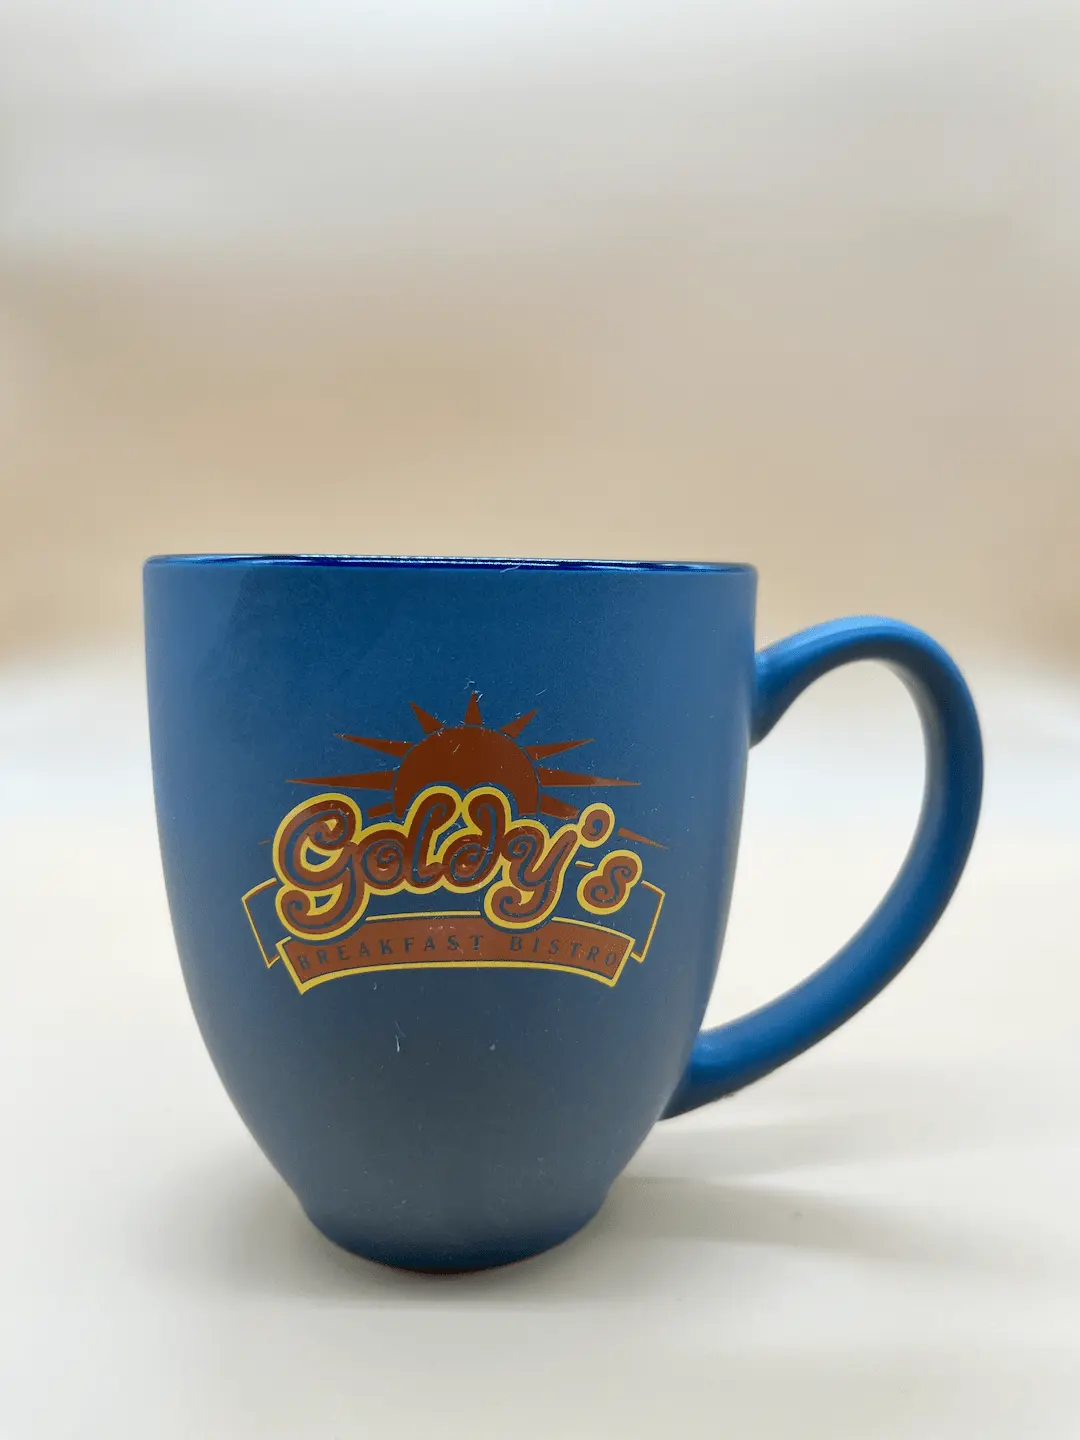
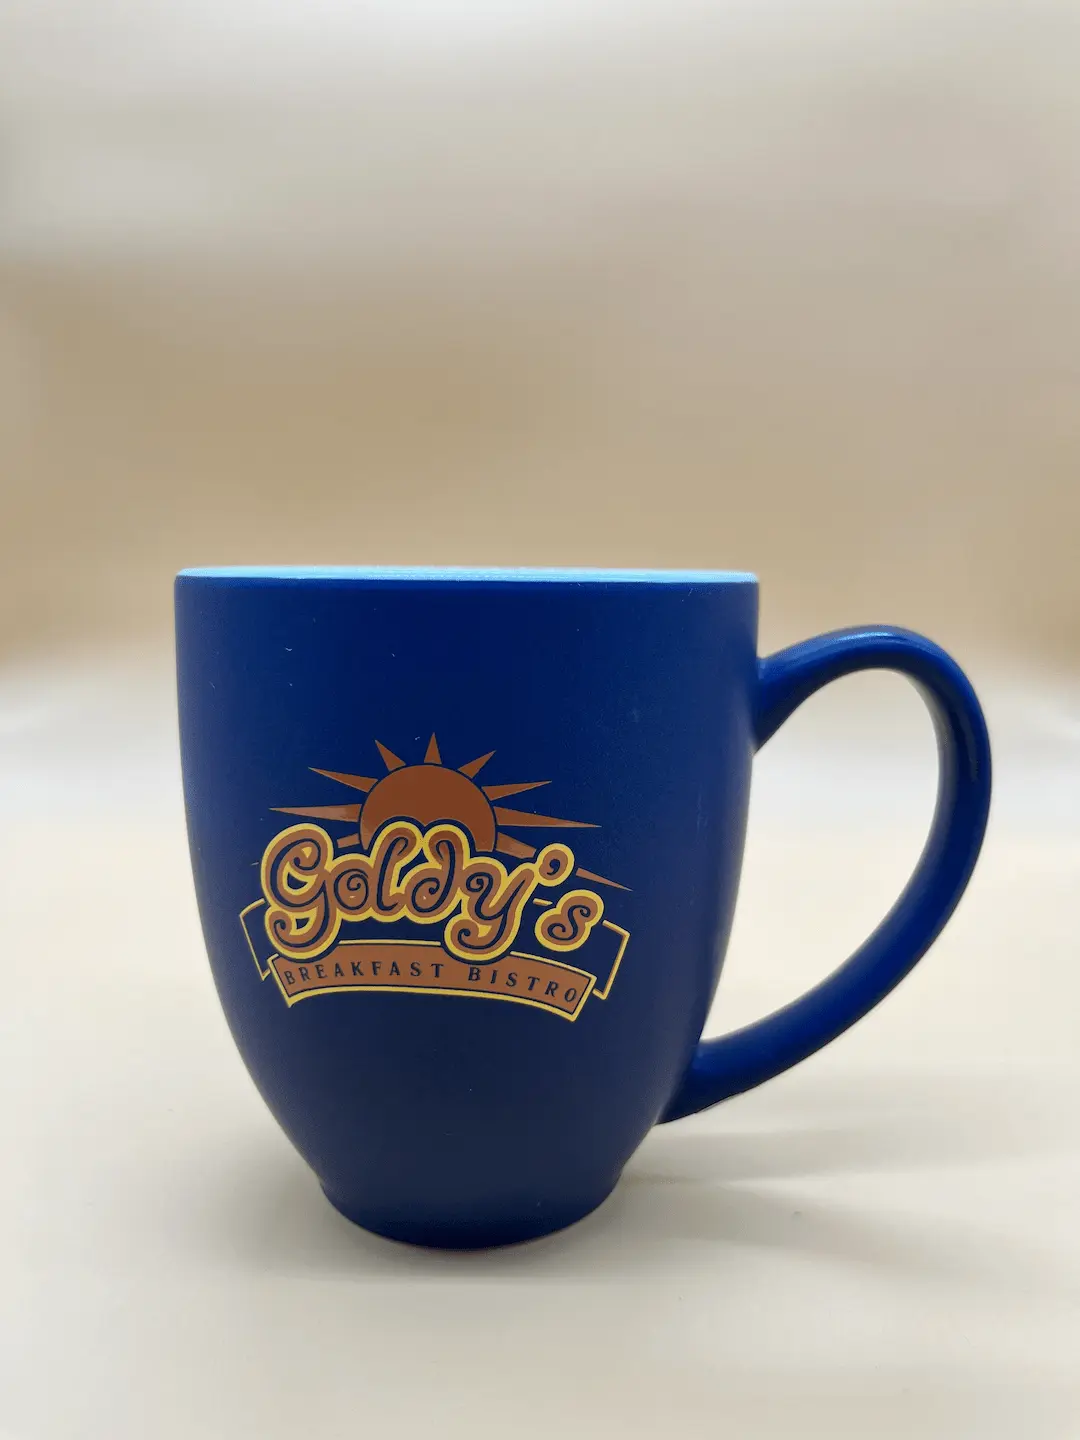
deploy

diff --git a/src/pages/ShopPage.vue b/src/pages/ShopPage.vue
@@ -68,8 +68,8 @@ export default {
     const merchTypes = ['mugs', 'shirts', 'coffee', 'hats', 'misc'];
     const merchItems = ref([
       { id: 1, type: 'mugs', image: '/img/ShopImages/BrownMug.jpg', description: '16 oz Brown Mug', price: '$12.95', paypalButtonId: 'NYL23AU9VCWQ2' },
-      { id: 2, type: 'mugs', image: '/img/ShopImages/DarkBlueMug.webp', description: '16 oz Light Blue Mug', price: '$12.95', paypalButtonId: 'HTU5ZW7H9G64U' },
-      { id: 3, type: 'mugs', image: '/img/ShopImages/BlueMug.webp', description: '16 oz Dark Blue Mug', price: '$12.95', paypalButtonId: 'UQNBC7PT47WYS' },
+      { id: 2, type: 'mugs', image: '/img/ShopImages/BlueMug.webp', description: '16 oz Light Blue Mug', price: '$12.95', paypalButtonId: 'HTU5ZW7H9G64U' },
+      { id: 3, type: 'mugs', image: '/img/ShopImages/DarkBlueMug.webp', description: '16 oz Dark Blue Mug', price: '$12.95', paypalButtonId: 'UQNBC7PT47WYS' },
       { id: 4, type: 'mugs', image: '/img/ShopImages/ClearMug.jpg', description: '12 oz Glass Mug', price: '$12.95', paypalButtonId: 'WURX3BPSWJJC4' },
       { id: 5, type: 'mugs', image: '/img/ShopImages/GreyOrangeMug.jpg', description: '16 oz Grey/Orange Mug', price: '$12.95', paypalButtonId: 'BLX9W78Q85NWS' },
       { id: 6, type: 'mugs', image: '/img/ShopImages/CornerMug.jpg', description: 'Goldys Corner 12 oz Mug', price: '$12.95', paypalButtonId: 'XLSA6UX2KH832' },
